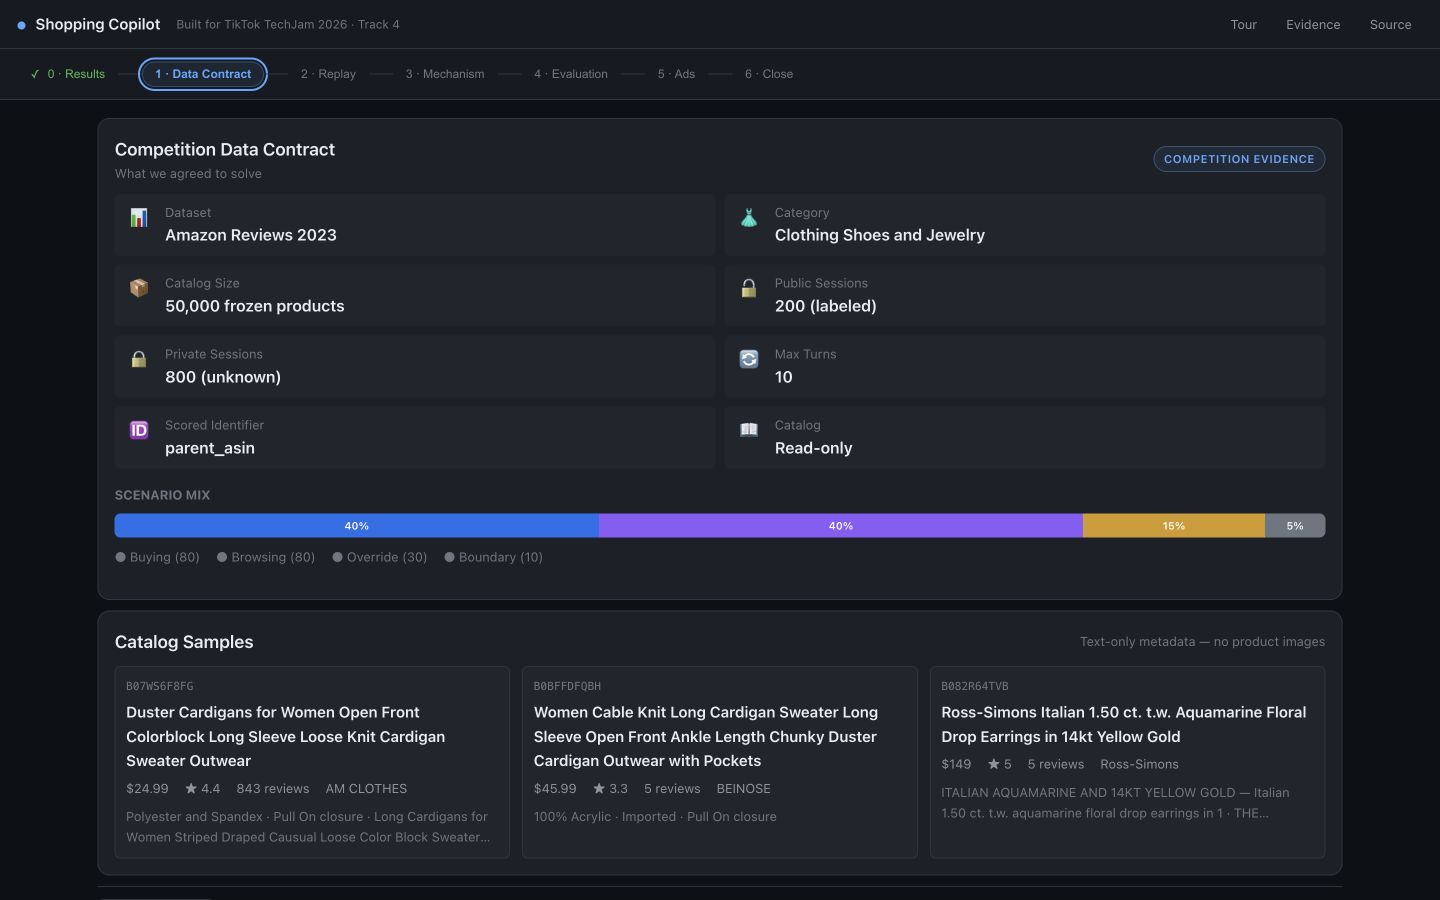
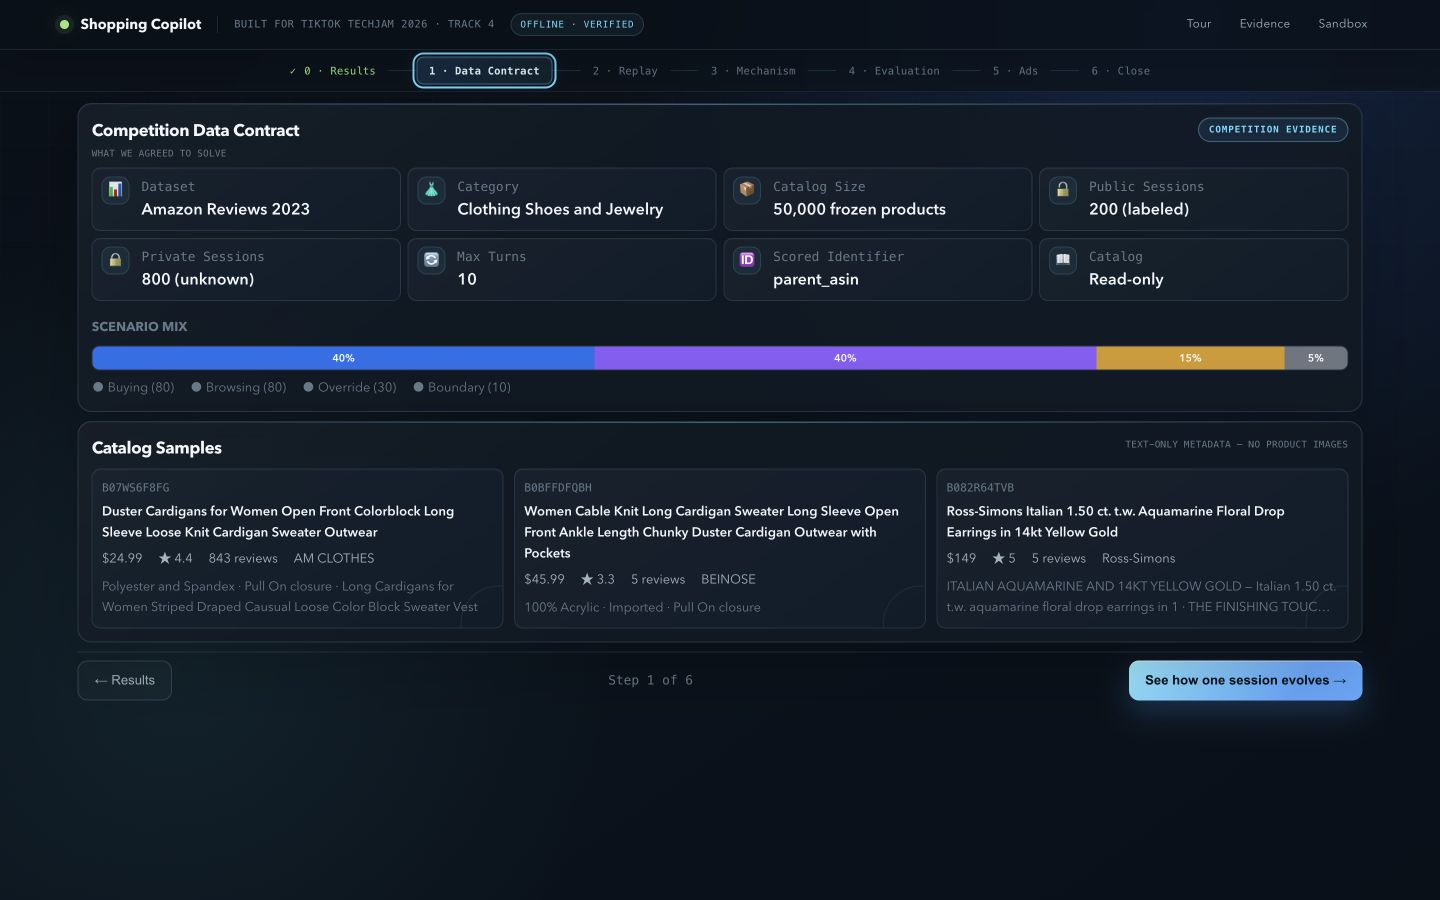
docs: refresh bilingual judge-tour story
Document the nine multi-turn ranking cases, Trace Microscope, viewport behavior, and updated three-minute recording path with current screenshots.

diff --git a/README.md b/README.md
@@ -38,39 +38,57 @@ not evidence about the organizer's 800 private sessions.
 | **Verified evaluation** | **Transparent demo-only ads** |
 | [![Official weak starter compared with Rules V1.3](docs/assets/readme/evaluation.jpg)](https://shopping-copilot-techjam.pages.dev/?step=4) | [![Relevance-aware ad auction with preserved organic order](docs/assets/readme/transparent-ads.jpg)](https://shopping-copilot-techjam.pages.dev/?step=5) |
 
-## Intent Override showcase
+### Trace Microscope: inspect the shipped mechanism
 
-The Tour now includes three owner-frozen official-public traces. Together they
-show that override handling is more than replacing one string:
+[![Interactive pipeline showing the current official trace, reranking evidence, and score weights](docs/assets/readme/mechanism-lab.jpg)](https://shopping-copilot-techjam.pages.dev/?step=3)
 
-| Public case | Pattern | Before override | State transition | After override | Outcome |
-| --- | --- | --- | --- | --- | --- |
-| `public_0004` | Replace one preference | `feature=adjustable` | Remove `adjustable`; add `material=polyester` | `material=polyester` | Target **Rank #1** on Turn 3 |
-| `public_0080` | Retain the valid value | `material=cotton, polyester` | Remove `polyester`; retain `cotton` | `material=cotton` | Target **Rank #1** on Turn 4 |
-| `public_0142` | Rewrite multiple slots | `color=black`; `comfortable`; `lightweight` | Remove three superseded values; add `stainless steel` and `hypoallergenic` | `material=stainless steel`; `feature=hypoallergenic` | Target **Rank #1** on Turn 4 |
+The five interactive stages use different trace-backed visuals: a route fork,
+state transition, recall funnel, Top-3 podium, and question-decision chain. The
+score anatomy exposes every shipped ranking weight and keeps popularity as a
+near-tie signal only.
 
-| Retain a still-valid preference (`public_0080`) | Rewrite several slots together (`public_0142`) |
+## Multi-turn recommendation and ranking evidence
+
+The Tour exposes nine owner-frozen official-public traces across Buying,
+Browsing, and Intent Override. Each case shows the user answer, state update,
+Top-10 list delta, per-item movement, and target-rank progression.
+
+| Scenario | Public case | Dialogue and recommendation impact | Outcome |
+| --- | --- | --- | --- |
+| Buying | `public_0018` | Target outside Top-10 for two turns; material answer replaces 8/10 results | **Rank #1** on Turn 3 |
+| Buying | `public_0152` | Detailed color and material bundle introduces the target watch | **Rank #1** on Turn 3 |
+| Buying | `public_0179` | Three rounds of refinement before the closure answer changes the list | **Rank #2** on Turn 4 |
+| Browsing | `public_0049` | Six-turn exploration: leather → brown → rubber → casual → soft | 9 new results; **Rank #1** on Turn 6 |
+| Browsing | `public_0007` | Vague request becomes polyester + spandex | **Rank #1** on Turn 3 |
+| Browsing | `public_0063` | One stretch-feature clarification resolves a vague request | **Rank #1** on Turn 2 |
+| Intent Override | `public_0003` | Remove stainless steel, continue refining, then rerank | 9 new results; **Rank #1** on Turn 5 |
+| Intent Override | `public_0046` | Public preview moves #5 → #1; override removes cotton/polyester and retains wool | Scored **Rank #1** on Turn 4 |
+| Intent Override | `public_0142` | Remove three old values; add stainless steel and hypoallergenic | Scored **Rank #1** on Turn 4 |
+
+| Buying: answer changes 8/10 results | Browsing: six turns to Rank #1 | Override: reset and recover |
+| --- | --- | --- |
+| [![Buying answer moves the target from outside Top-10 to Rank #1](docs/assets/readme/ranking-buying.jpg)](https://shopping-copilot-techjam.pages.dev/?step=2) | [![Six-turn browsing session replaces nine results and reaches Rank #1](docs/assets/readme/ranking-browsing.jpg)](https://shopping-copilot-techjam.pages.dev/?step=2) | [![Override removes an old preference and later reaches Rank #1](docs/assets/readme/ranking-override.jpg)](https://shopping-copilot-techjam.pages.dev/?step=2) |
+
+| Preview #5 → #1 → scored #1 (`public_0046`) | Multi-slot rewrite (`public_0142`) |
 | --- | --- |
-| [![Polyester is removed while cotton is retained](docs/assets/readme/override-retain.jpg)](https://shopping-copilot-techjam.pages.dev/?step=2) | [![Three old values are removed and two replacements are added](docs/assets/readme/override-multislot.jpg)](https://shopping-copilot-techjam.pages.dev/?step=2) |
+| [![Target rank improves in public preview before the override becomes a scored hit](docs/assets/readme/override-retain.jpg)](https://shopping-copilot-techjam.pages.dev/?step=2) | [![Three old values are removed and two replacements are added](docs/assets/readme/override-multislot.jpg)](https://shopping-copilot-techjam.pages.dev/?step=2) |
 
-Each selector card opens the complete official session: all user turns, agent
-responses, per-turn state diffs, Top-10 recommendations, target identity, and
-rank progression remain inspectable rather than being condensed into a staged
-animation.
+The Replay distinguishes a public-label preview from an official scored hit.
+Before the override gate is satisfied, a visible target is labelled `Public
+preview`, never `Scored target`.
 
 ```mermaid
 sequenceDiagram
     participant U as User
     participant S as Versioned state
     participant R as Retrieval and reranking
-    U->>S: Initial preference
-    S->>R: Search with current constraints
-    U->>S: OVERRIDE, ignore earlier preference
-    S->>S: Remove superseded values
-    S->>S: Retain still-valid values
-    S->>S: Add replacement values
-    S->>R: Rerun Top-10 with rewritten state
-    R-->>U: Target reaches Rank #1
+    U->>S: Initial or vague request
+    S->>R: Build initial Top-10
+    R-->>U: Target outside Top-10; ask one useful question
+    U->>S: Answer with material, feature, or override
+    S->>S: Add, retain, or remove constraints
+    S->>R: Rerank 50k catalog candidates
+    R-->>U: Show new/retained/moved items and target Rank #1
 ```
 
 ## What the project demonstrates

diff --git a/demo/VIDEO_SCRIPT.md b/demo/VIDEO_SCRIPT.md
@@ -42,33 +42,40 @@ Suggested narration:
 ### 0:45–1:10 — Buying case
 
 - Open Replay → Buying.
-- Show canonical case `public_0030`.
-- Highlight `+ added material: polyester` and Target Rank #1.
+- Keep `public_0018` selected.
+- Advance Turn 1 → Turn 3 and point to the rank journey:
+  `Outside Top-10 → Outside Top-10 → Rank #1`.
+- Point to `8 new · 2 retained · 2 reordered` and the `NEW` badges.
 
-> “A concrete Buying request locks the explicit material constraint immediately,
-> retrieves ten catalog-valid products, and places the target first.”
+> “The first request is not enough: the purchased item is outside Top-10. After
+> the user's material answer, eight recommendations change and the target moves
+> directly to Rank #1.”
 
 ### 1:10–1:40 — Intent Override
 
 - Select `Intent Override`.
-- Keep Case 1 selected and advance `public_0004` from Turn 1 to Turn 3.
-- Point to `removed feature: adjustable`, `added material: polyester`, and Rank #1.
-- Briefly point to the Case 2 and Case 3 selectors as deeper official-public
-  evidence; do not open them in the three-minute cut.
+- Keep `public_0003` selected and use Auto to advance Turn 1 → Turn 5.
+- Point to the Turn 3 removal of `material: stainless steel`, then the Turn 5
+  `9 new · 1 retained · Rank #1` result.
+- Briefly point to `public_0046` for the `Preview #5 → Preview #1 → Scored #1`
+  distinction and `public_0142` for multi-slot rewrite.
 
 > “The difficult override scenario is erase-and-rewrite, not append-only state.
-> The superseded preference disappears while the replacement enters the state.
-> Two additional official traces show selective retention and multi-slot rewrite.”
+> The superseded preference disappears, the agent keeps asking useful questions,
+> and the final answer changes nine recommendations before the target reaches #1.”
 
 ### 1:40–2:05 — Mechanism
 
-- Open Mechanism.
-- Briefly cover intent routing, versioned state, FTS5 retrieval, rule reranking,
-  candidate-driven clarification, and the banded popularity tiebreaker.
-- Open `Experiments We Did Not Ship` to show the cross-encoder negative result.
+- Open Mechanism after the Buying target reaches Rank #1; the context bar should
+  remain on `public_0018 · Turn 3 / 3`.
+- Click `Versioned State` to show the added material values.
+- Click `Rule Reranker` to show the new Top-3 and score anatomy:
+  category +3, hard +4, soft +1.5, and popularity as tie-break only.
+- Point to `Question Policy` without opening the negative-results drawer.
 
-> “We built heavier alternatives, measured them, and kept the lightweight path
-> because it scored better on this task.”
+> “This is the shipped data path, not a conceptual architecture diagram. The
+> selected user answer updates state, FTS5 recalls candidates, transparent rules
+> rerank them, and the question policy asks only when candidates remain ambiguous.”
 
 ### 2:05–2:35 — Evaluation evidence
 

diff --git a/demo/WALKTHROUGH.md b/demo/WALKTHROUGH.md
@@ -31,31 +31,36 @@ Use the four scenario tabs:
 
 | Tab | Canonical evidence | What to inspect |
 | --- | --- | --- |
-| Buying | `public_0030` | `material=polyester`, target Rank #1 |
-| Browsing | `public_0063` | clarification narrows a vague request |
-| Intent Override | `public_0004`, `public_0080`, `public_0142` | replace, selectively retain, and multi-slot rewrite; all targets Rank #1 |
+| Buying | `public_0018`, `public_0152`, `public_0179` | user answers move targets from outside Top-10 to Rank #1/#2 |
+| Browsing | `public_0049`, `public_0007`, `public_0063` | vague exploration progressively changes Top-10 and reaches Rank #1 |
+| Intent Override | `public_0003`, `public_0046`, `public_0142` | reset old state, continue answering, rerank, and separate preview from scored hit |
 | Boundary | `public_0050` | no-preference handling without state loss |
 
 Use Prev, Next, Auto, and Restart to move through a trace. Target labels are
 visible because these are labeled public sessions.
 
-For Intent Override, use the three case cards above the replay. The six-card
-summary makes the full transition explicit: `Before override`, `Removed`,
-`Retained`, `Added`, `After override`, and `Rank progression`. The short video
-path can stay on `public_0004`; reviewers who want stronger evidence can open
-the two four-turn cases without leaving Step 2.
+Buying, Browsing, and Intent Override each expose three case cards. For every
+turn, inspect the rank journey, `new / retained / reordered` Top-10 delta, and
+per-product `NEW / ↑ / ↓ / =` movement badge. Use `public_0018` as the short
+video path: the target is outside Top-10 for two turns, then the user's material
+answer replaces eight results and moves it to Rank #1. Use `public_0003` to show
+override recovery, and `public_0046` to explain public preview vs scored hit.
 
 ## Step 3 — Mechanism
 
-Expand the four mechanism cards:
+Use the Trace Microscope after selecting a Replay turn. The context bar should
+carry the same sample ID, turn, user signal, and recommendation impact.
 
-1. Dual-track routing
-2. Erase-and-rewrite state machine
-3. Candidate-driven clarification
-4. Banded popularity tiebreaker
+Click the five pipeline stages:
 
-Read `Experiments We Did Not Ship` for the cross-encoder and prompt-evolution
-negative results.
+1. **Intent Router** — route-fork graphic plus ITEM/VAGUE, dialogue act, confidence, next question.
+2. **Versioned State** — before/delta/after graphic plus added, removed, and retained constraints.
+3. **SQLite FTS5 Recall** — 50k-to-Top-10 funnel plus real query terms and negative filter.
+4. **Rule Reranker** — Top-3 podium plus transparent scoring weights.
+5. **Question Policy** — candidate-to-threshold decision chain plus selected `ask_attribute`.
+
+Open `Experiments We Did Not Ship` only for deeper review of the cross-encoder
+and prompt-evolution negative results.
 
 ## Step 4 — Evaluation
 

diff --git a/docs/plans/2026-08-31-evidence-tour-visual-refresh-design.md b/docs/plans/2026-08-31-evidence-tour-visual-refresh-design.md
@@ -1,0 +1,47 @@
+# Evidence Tour Visual Refresh
+
+## Direction
+
+Turn the judge-facing Tour into a premium technical dossier: editorial hierarchy,
+precise data typography, deep ink surfaces, and restrained cyan/lime evidence
+signals. The memorable object is the evidence scorecard, not decorative chrome.
+
+## Constraints
+
+- Preserve the seven-step information architecture and all evidence IDs.
+- Preserve 1440×900 recording mode and responsive behavior.
+- Keep the site offline-capable: no remote fonts, images, or runtime services.
+- Competition evidence remains blue/cyan; demo-only ads remain purple; unknown
+  private-set performance remains amber.
+- Respect reduced-motion preferences and keyboard focus states.
+
+## Component treatment
+
+- Hero: asymmetric editorial copy plus a high-contrast verified scorecard.
+- Navigation: compact glass rail with a clear active-step signal.
+- Cards: layered surfaces, subtle top highlights, stronger spacing hierarchy.
+- Replay: scenario controls become a segmented instrument panel; override state
+  transitions use color-coded summary cards without relying on color alone.
+- Evaluation: tabular numbers, highlighted current row, compact metric tiles.
+- Ads: visually distinct purple lab treatment, maintaining its demo-only label.
+
+## Acceptance
+
+- No evidence, route, or interaction regressions.
+- Entire primary replay remains usable at 1440×900.
+- Hero and replay remain readable at 1024px and narrow mobile widths.
+- Full unit/evidence suite passes and browser console remains clean.
+
+## Viewport-fit refinement
+
+- At 1440×900 and 1366×768, every default tour step fits without page scrolling.
+- Short desktop viewports hide the redundant brand bar during dense Replay steps,
+  while retaining the progress rail and Competition Evidence label.
+- Intent Override exposes only one internal scroll surface: the Top-10 list. Turn
+  history and state are fully visible without clipping.
+- Evaluation provenance and Closeout limitations use native disclosure controls,
+  keeping low-frequency detail available without forcing it into the main frame.
+- At 721–1024px, Turn and State use a two-column layout and Top-10 uses two columns.
+  At phone widths, every panel returns to natural single-column document flow.
+- Completed ad auctions compact their input cards and keep the winner, formula,
+  sponsored slot, and organic-order invariant in the same frame.

diff --git a/docs/plans/2026-08-31-trace-microscope-mechanism-design.md b/docs/plans/2026-08-31-trace-microscope-mechanism-design.md
@@ -1,0 +1,56 @@
+# Trace Microscope Mechanism Design
+
+## Problem
+
+The previous Mechanism step listed four expandable cards. It named the right
+components but did not prove that the selected Replay turn actually passed
+through them. The information was static, text-heavy, and disconnected from the
+recommendation change shown one step earlier.
+
+## Decision
+
+Use a trace-linked mechanism inspector with five interactive stages:
+
+1. Intent Router
+2. Versioned State
+3. SQLite FTS5 Recall
+4. Rule Reranker
+5. Candidate-driven Question Policy
+
+The context bar persists the current official sample ID, turn, user signal, and
+rank impact. Each stage pairs a stable implementation contract with evidence
+from `currentTrace.turns[currentTurnIdx]`.
+
+## Live evidence
+
+- Route: `domain_intent`, `dialogue_act`, confidence, next question.
+- State: added, removed, retained constraint values.
+- Recall: real query terms, visible result count, negative-filter status.
+- Rerank: current Top-3 and movement relative to the previous turn.
+- Question: selected attribute, known-state count, threshold, coverage × entropy rule.
+
+## Visual encoding
+
+- Route uses a labeled two-lane fork and highlights the active Buying/Browsing path.
+- State uses Before → Delta → After with directly labelled add/remove/retain counts.
+- Recall uses a narrowing funnel from the 50,000-product catalog to the visible list.
+- Rerank uses a directly labelled Top-3 podium; bar height represents position,
+  not an invented score.
+- Question uses a candidate → coverage × entropy → threshold → ask decision chain.
+
+Every diagram keeps a text equivalent in the live evidence panel and never relies
+on color alone.
+
+The ranking score anatomy remains visible across stages: recall rank base,
+category, hard/soft constraints, hard miss, profile, rating, and popularity
+tie-break. Negative experiments are available through native disclosure rather
+than occupying the primary judge path.
+
+## Boundaries
+
+- No synthetic trace or invented candidate score.
+- The broad internal policy pool is described from source code; live evidence
+  labels only the visible candidate count captured in the frozen trace.
+- Source locations and metric deltas are tied to shipped code and reports.
+- At 1280×720 the main inspector fits without page overflow. Narrow panels use
+  horizontal pipeline navigation and a single natural page scroll.

diff --git a/docs/plans/2026-08-31-ranking-first-replay-design.md b/docs/plans/2026-08-31-ranking-first-replay-design.md
@@ -1,0 +1,45 @@
+# Ranking-First Replay Design
+
+## Problem
+
+The previous default Buying trace (`public_0030`) ended after one turn. It proved
+that the target could rank first, but did not prove the product's core loop:
+ask a useful question, interpret the answer, update state, rerank the catalog,
+and improve the recommendation list. Secondary multi-turn cases existed in the
+manifest but had no visible selector outside Intent Override.
+
+The previous target treatment also mixed two concepts during Intent Override:
+the target could be visible in the labeled public Top-10 before the official
+override gate allowed it to count as a hit.
+
+## Decision
+
+Make recommendation impact the primary Step 2 story.
+
+- Buying, Browsing, and Intent Override each expose three official multi-turn
+  cases, for nine ranking examples total.
+- Every trace displays a turn-by-turn rank journey.
+- Every turn reports new, retained, and reordered Top-10 items.
+- Every result receives `NEW`, `↑`, `↓`, or `=` movement evidence relative to
+  the previous turn.
+- The currently selected user answer remains visible beside the rank journey.
+- Intent Override labels early target visibility as `Public preview`; only an
+  eligible official hit receives `Scored target`.
+- Boundary remains an optional edge-case proof, not the ranking centerpiece.
+
+## Primary stories
+
+| Scenario | Trace | Story |
+| --- | --- | --- |
+| Buying | `public_0018` | Outside Top-10 for two turns; user material answer replaces eight results and moves target to #1 |
+| Browsing | `public_0049` | Six-turn exploration progressively rewrites the list; nine new results and target #1 on Turn 6 |
+| Intent Override | `public_0003` | Remove old material preference, continue clarification, then replace nine results and reach #1 |
+
+## Acceptance
+
+- Three visible case cards for each core scenario.
+- No one-turn trace is used as a core ranking example.
+- Rank journey, recommendation delta, and result movement remain visible at
+  1440×900 and 1366×768 without page overflow or clipping.
+- Tablet reflows without nested vertical scroll areas.
+- All evidence remains generated from frozen official-public traces.
